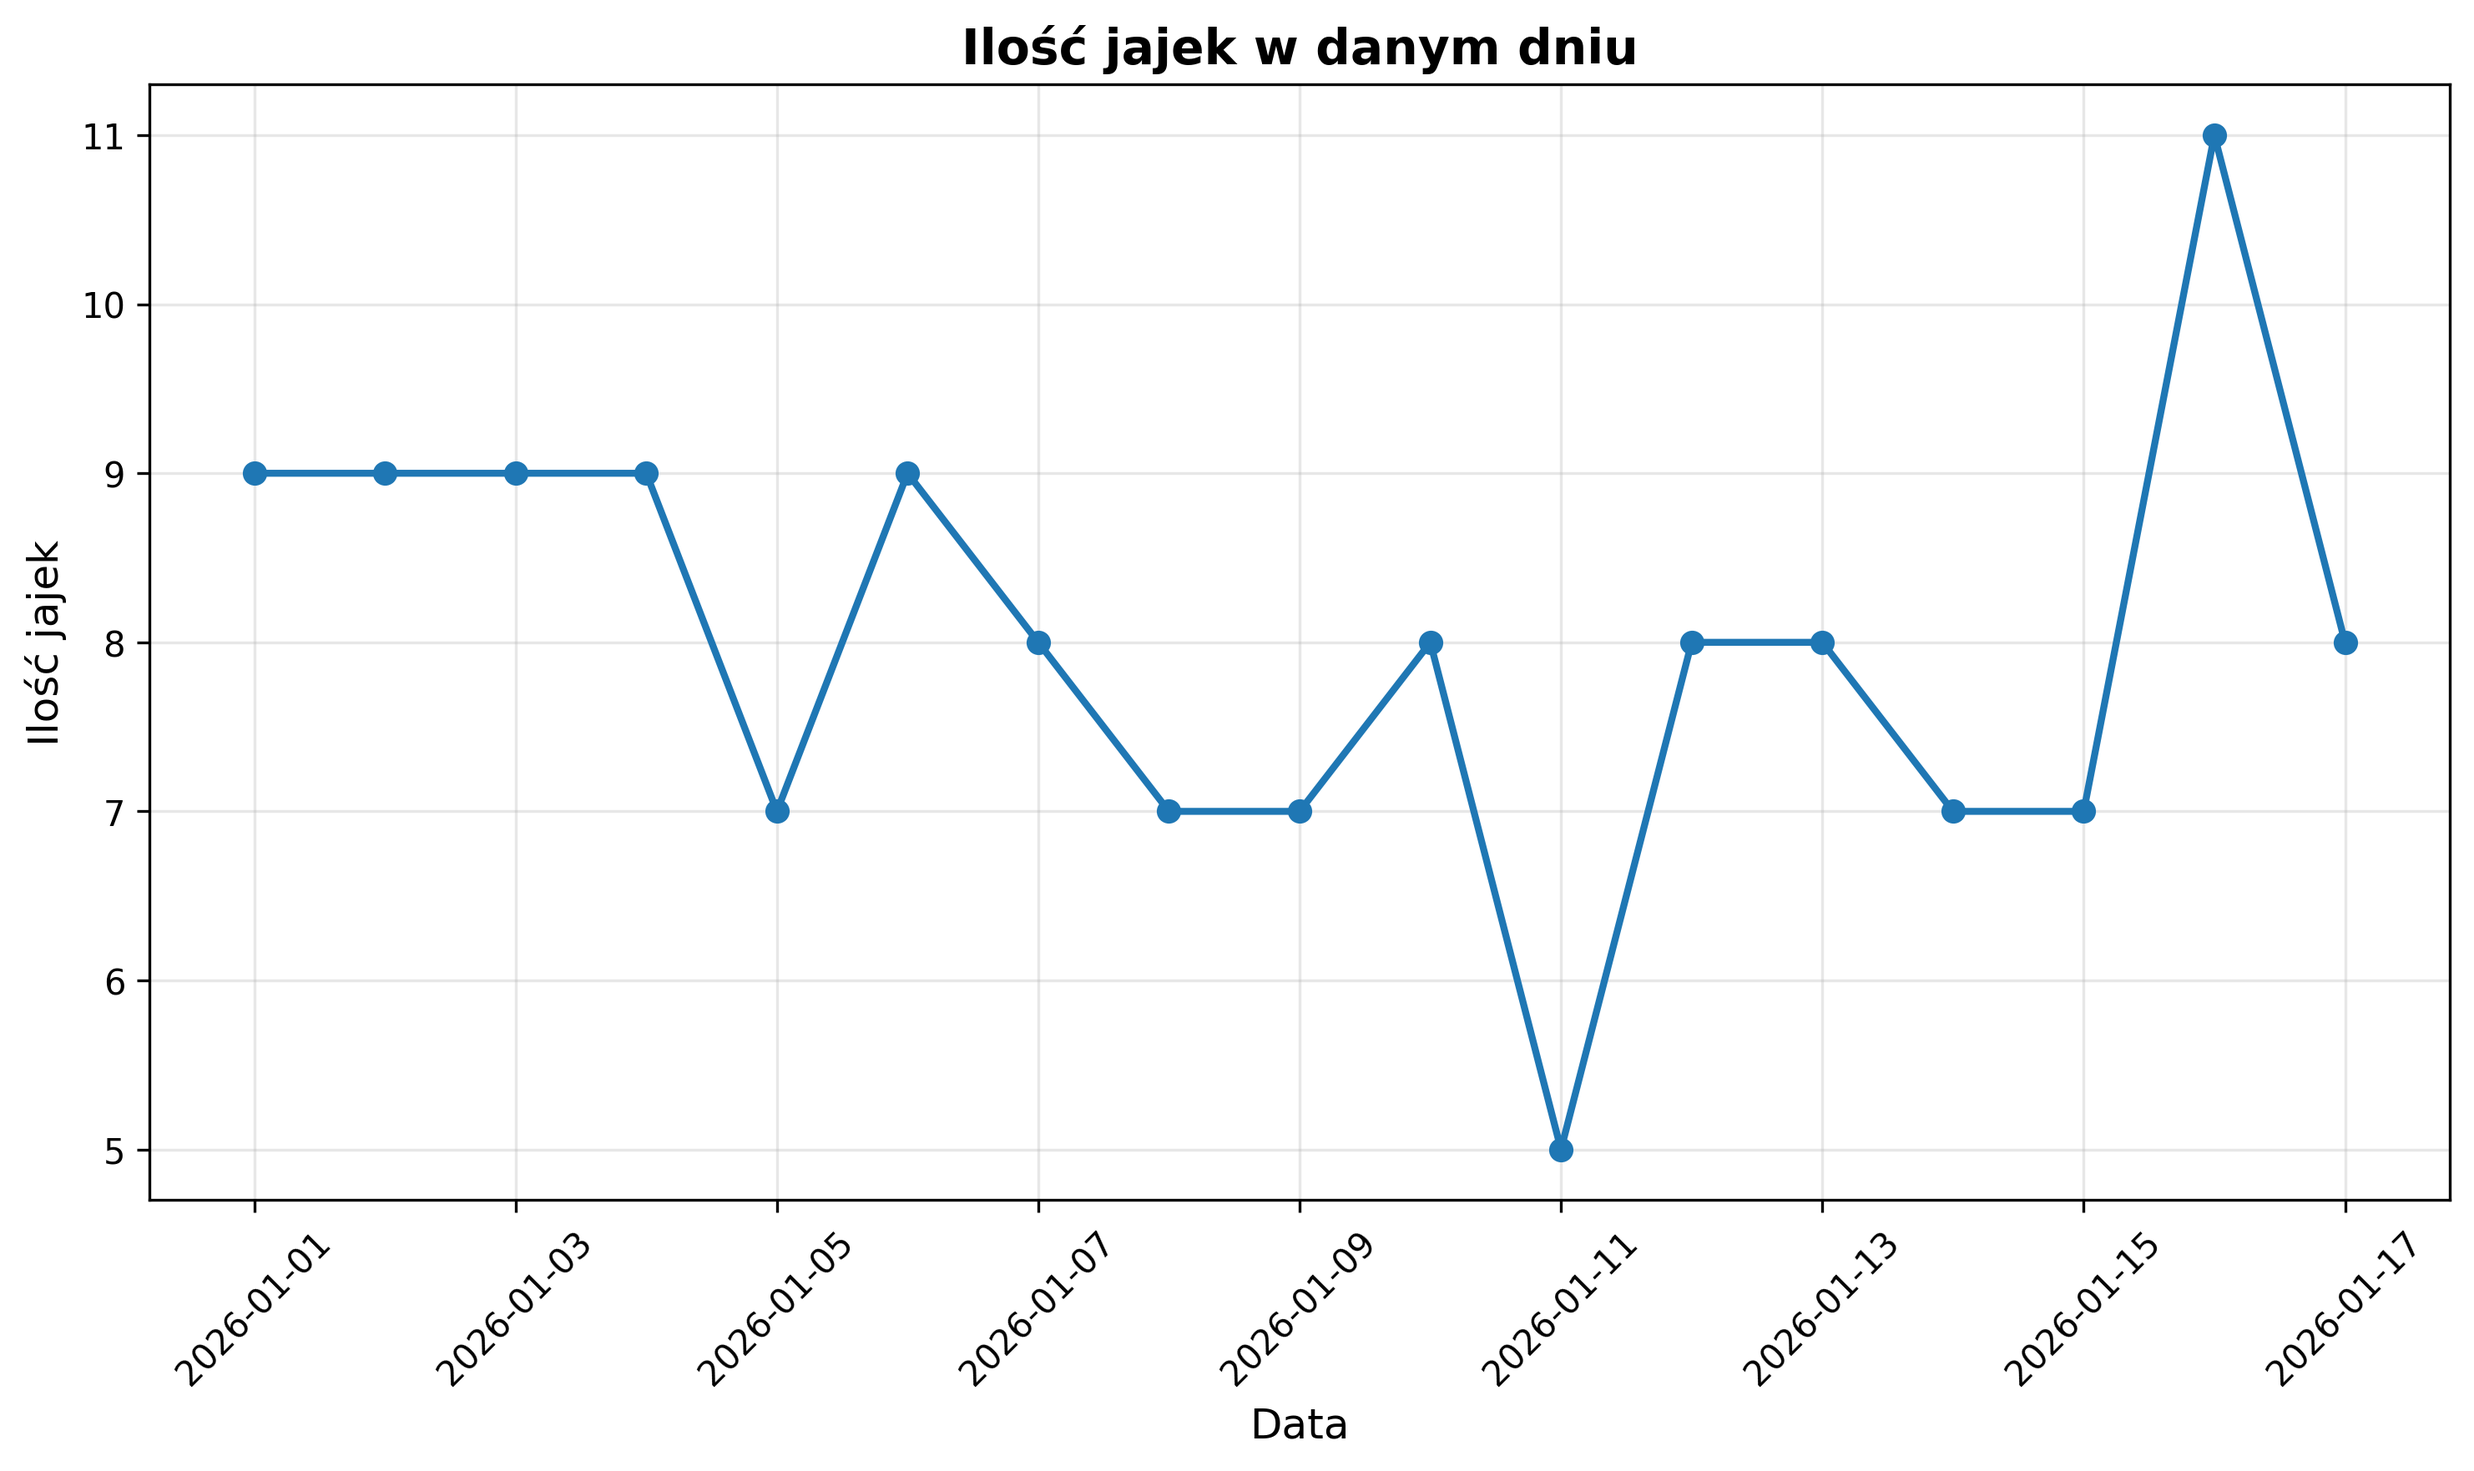
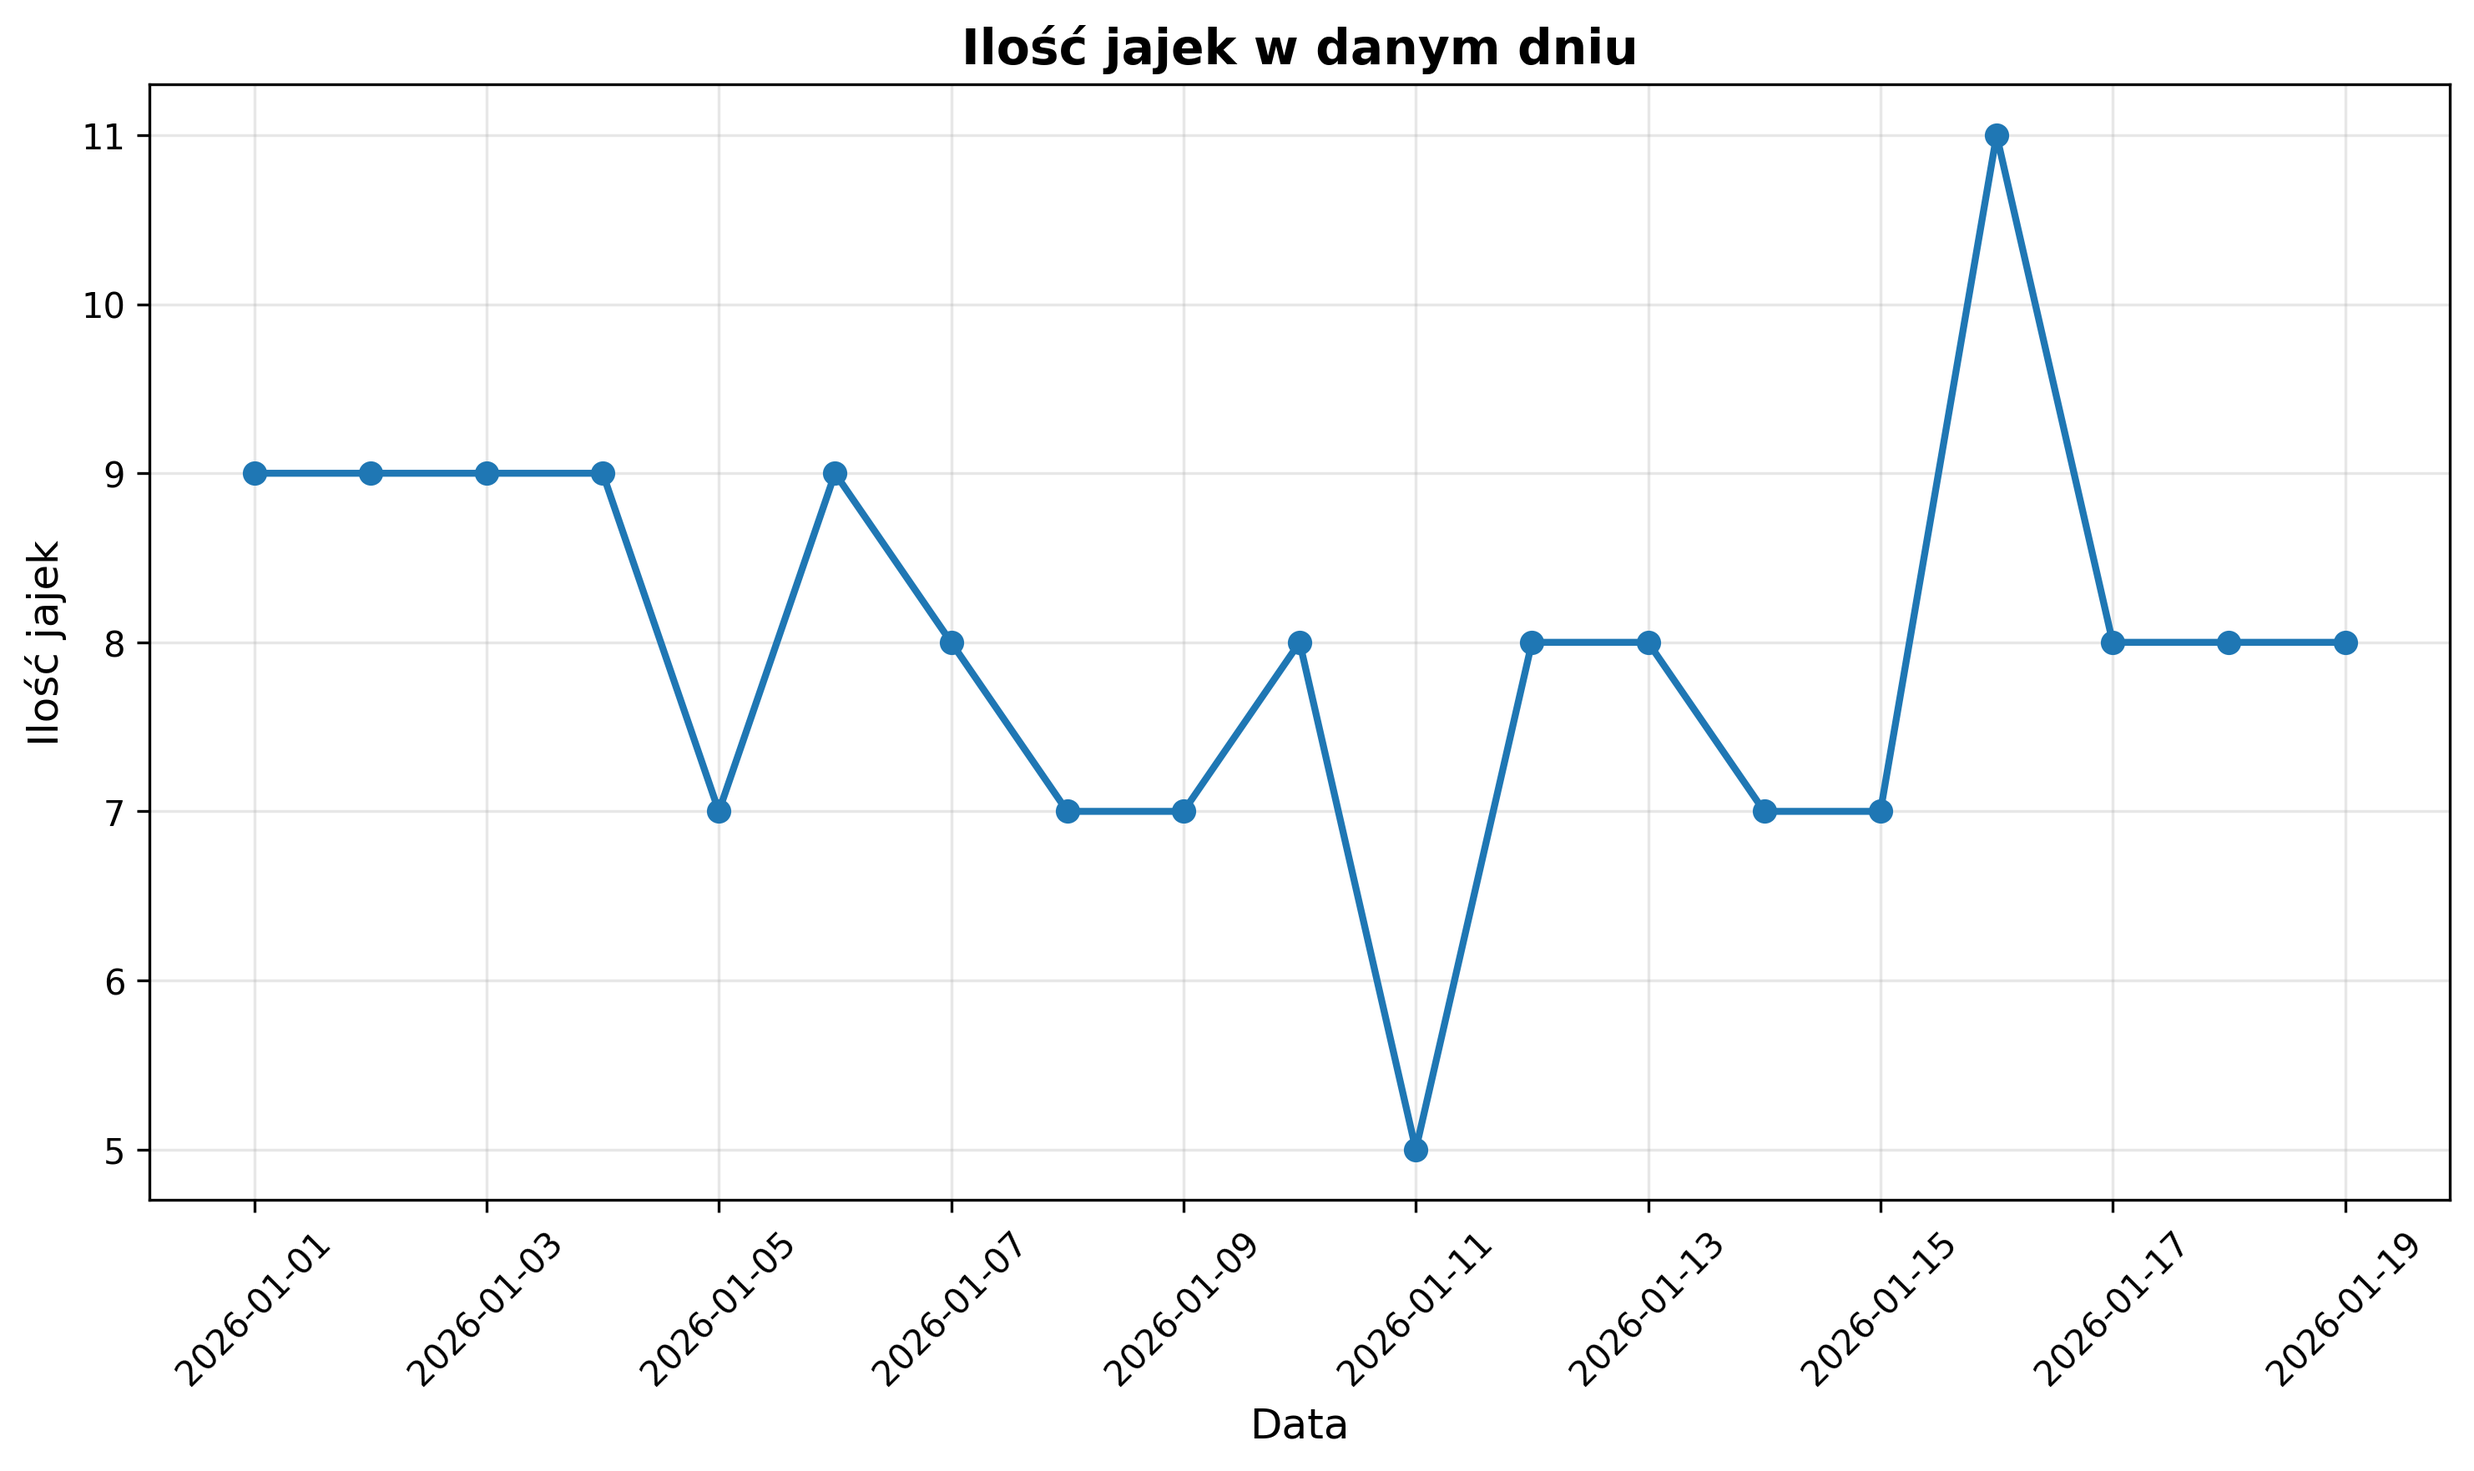
Chart update

diff --git a/jajka.html b/jajka.html
@@ -7,7 +7,7 @@
 </head>
 <body>
     <div style="font-size: 20px; font-style: italic;">Ostatnia aktualizacja:</div>
-    <div style="font-size: 18px; font-style: italic; color: red;">2026-01-17 18:34:40</div>
+    <div style="font-size: 18px; font-style: italic; color: red;">2026-01-19 21:34:39</div>
     <img src="img/chart.png" alt="" style="width: 100vw; height: 100vh; object-fit: contain; display: block; margin: 0 auto; position: absolute; top: 50%; left: 50%; transform: translate(-50%, -50%);">
 </body>
 </html>
